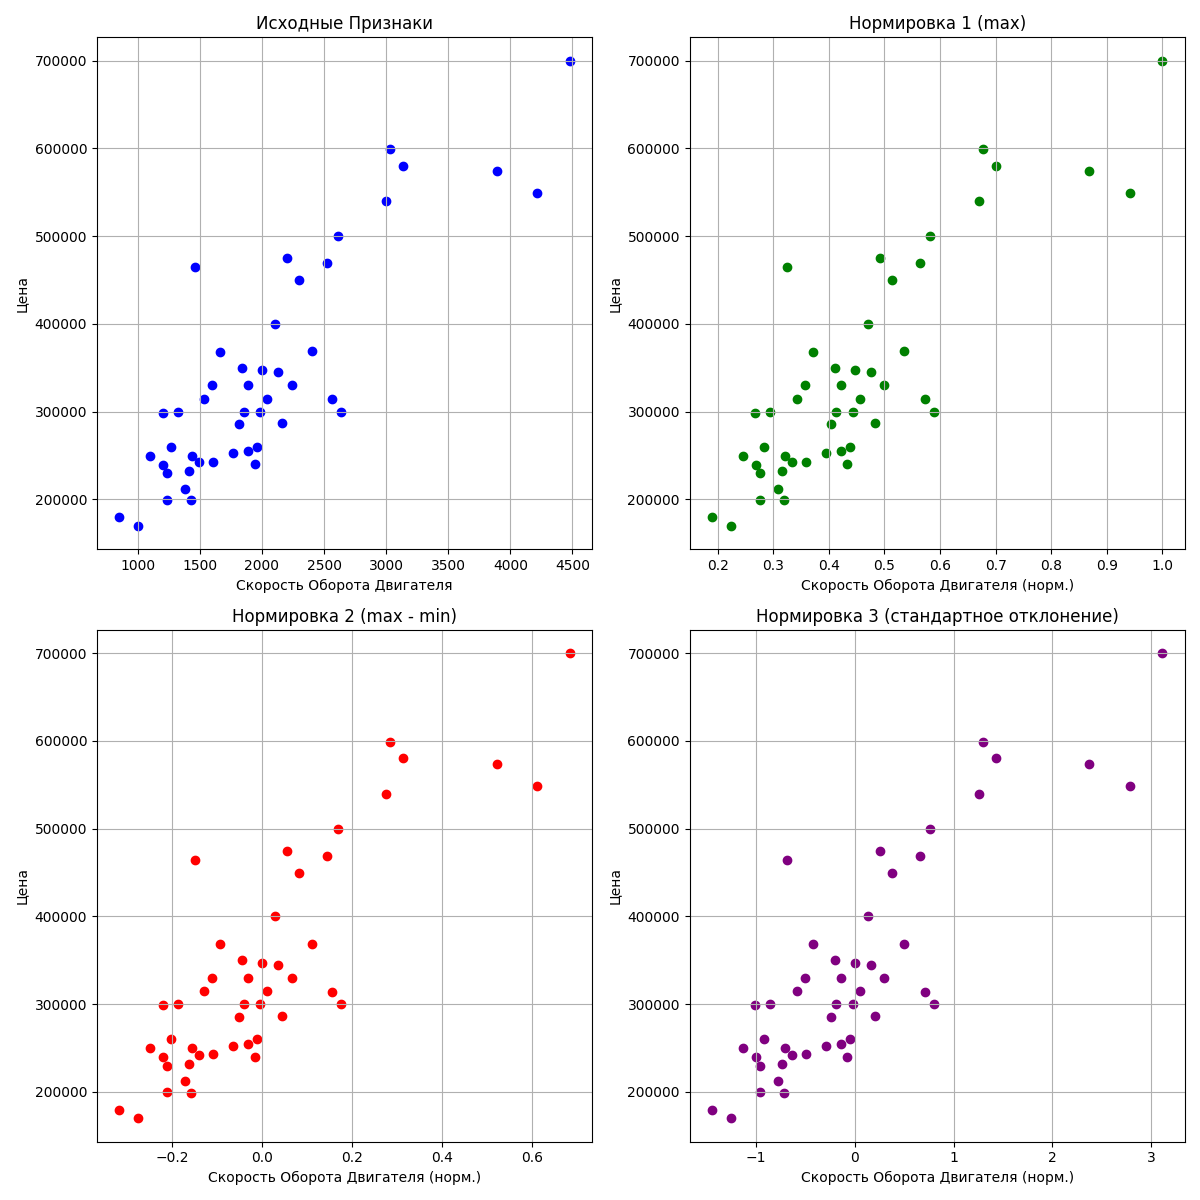
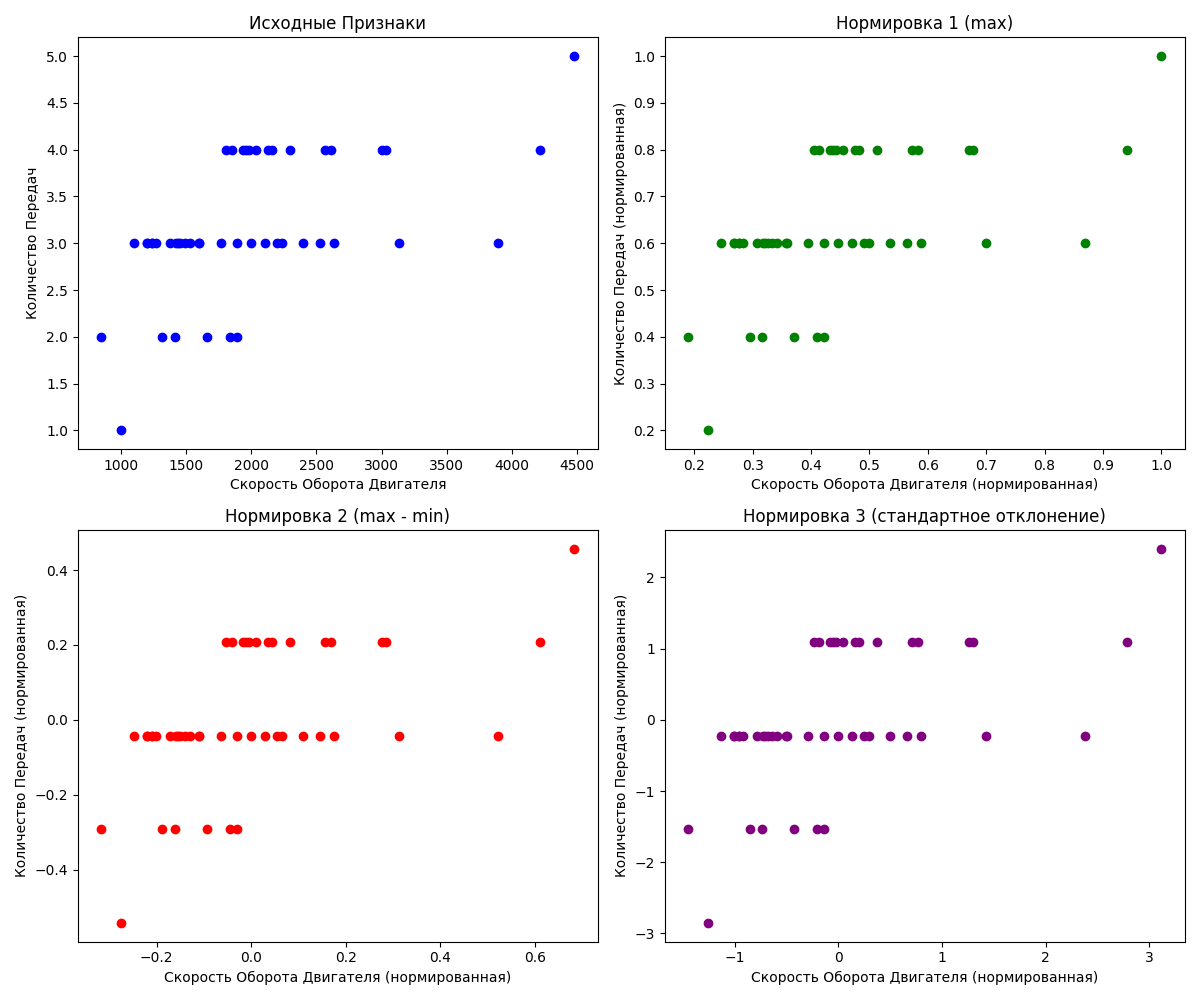
ь

diff --git a/4-normalization/normalization.py b/4-normalization/normalization.py
@@ -1,110 +1,82 @@
 import pandas as pd
 import matplotlib.pyplot as plt
 
-file_path = "ex1data2.txt"
-data = pd.read_csv(file_path, header=None, names=["Скорость Оборота Двигателя", "Количество Передач", "Цена"])
+# Загрузка данных из файла
+data = pd.read_csv('ex1data2.txt', header=None)
+data.columns = ['Engine_Speed', 'Num_Gears', 'Price']
 
+# Нормировка 1: делим на максимальное значение
+data_normalized_1 = data.copy()
+data_normalized_1.iloc[:, 0] = data.iloc[:, 0] / data.iloc[:, 0].max()  # Engine_Speed
+data_normalized_1.iloc[:, 1] = data.iloc[:, 1] / data.iloc[:, 1].max()  # Num_Gears
+data_normalized_1.iloc[:, 2] = data.iloc[:, 2] / data.iloc[:, 2].max()  # Price
 
-def normalize_max(data):
-    """
-    Формула: x'_j = x_j / max(x_j)
-    """
-    return data / data.max()
+# Нормировка 2: центрируем и делим на диапазон (max - min)
+# (x - u) / (max(X) - min(X))
+data_normalized_2 = data.copy()
+data_normalized_2.iloc[:, 0] = (data.iloc[:, 0] - data.iloc[:, 0].mean()) / (
+            data.iloc[:, 0].max() - data.iloc[:, 0].min())
+data_normalized_2.iloc[:, 1] = (data.iloc[:, 1] - data.iloc[:, 1].mean()) / (
+            data.iloc[:, 1].max() - data.iloc[:, 1].min())
+data_normalized_2.iloc[:, 2] = (data.iloc[:, 2] - data.iloc[:, 2].mean()) / (
+            data.iloc[:, 2].max() - data.iloc[:, 2].min())
 
+# Нормировка 3: центрируем и делим на стандартное отклонение
+# (x - u) / std(X)
+#  std = (1/n* sum((x - u)**2))**0.5
+data_normalized_3 = data.copy()
+data_normalized_3.iloc[:, 0] = (data.iloc[:, 0] - data.iloc[:, 0].mean()) / data.iloc[:, 0].std()
+data_normalized_3.iloc[:, 1] = (data.iloc[:, 1] - data.iloc[:, 1].mean()) / data.iloc[:, 1].std()
+data_normalized_3.iloc[:, 2] = (data.iloc[:, 2] - data.iloc[:, 2].mean()) / data.iloc[:, 2].std()
 
-def normalize_range(data):
-    """
-    Формула: x'_j = (x_j - mean(x_j)) / (max(x_j) - min(x_j))
-    """
-    mean = data.mean()
-    range_ = data.max() - data.min()
-    return (data - mean) / range_
+# Визуализация исходных и нормализованных данных
+plt.figure(figsize=(12, 10))
 
-
-def normalize_std(data):
-    """
-    Формула: x'_j = (x_j - mean(x_j)) / std(x_j)
-    """
-    mean = data.mean()
-    std = data.std()
-    return (data - mean) / std
-
-
-# Вычисление среднего и стандартного отклонения явно по определению
-def calculate_mean(data):
-    """
-    Среднее значение: mean = sum(x_i) / N
-    """
-    return sum(data) / len(data)
-
-
-def calculate_std(data, mean):
-    """
-    Стандартное отклонение: std = sqrt(sum((x_i - mean)^2) / N)
-    """
-    variance = sum((x - mean) ** 2 for x in data) / len(data)
-    return variance ** 0.5
-
-
-# Признаки и целевая переменная
-features = data.iloc[:, :-1]
-price = data.iloc[:, -1]
-
-# Добавление целевой переменной в список для обработки
-columns_to_process = features.join(price).columns
-
-# Вычисление среднего и СКО по каждой колонке
-for column in columns_to_process:
-    column_data = data[column]
-    mean_by_def = calculate_mean(column_data)
-    std_by_def = calculate_std(column_data, mean_by_def)
-
-    # Использование встроенных функций pandas
-    mean_builtin = column_data.mean()
-    std_builtin = column_data.std()
-
-    print(f"Колонка: {column}")
-    print(f"Среднее (по определению): {mean_by_def}")
-    print(f"Среднее (встроенная функция): {mean_builtin}")
-    print(f"СКО (по определению): {std_by_def}")
-    print(f"СКО (встроенная функция): {std_builtin}")
-    print("-" * 40)
-
-# Нормализация
-norm_max = features.apply(normalize_max, axis=0)
-norm_range = features.apply(normalize_range, axis=0)
-norm_std = features.apply(normalize_std, axis=0)
-
-# Построение графиков
-plt.figure(figsize=(12, 12))
-
+# Исходные данные (только признаки)
 plt.subplot(2, 2, 1)
-plt.scatter(features.iloc[:, 0], price, color="blue")
-plt.xlabel("Скорость Оборота Двигателя")
-plt.ylabel("Цена")
-plt.title("Исходные Признаки")
-plt.grid()
+plt.scatter(data['Engine_Speed'], data['Num_Gears'], color='blue')
+plt.title('Исходные Признаки')
+plt.xlabel('Скорость Оборота Двигателя')
+plt.ylabel('Количество Передач')
 
+# Нормированные данные (первый способ)
 plt.subplot(2, 2, 2)
-plt.scatter(norm_max.iloc[:, 0], price, color="green")
-plt.xlabel("Скорость Оборота Двигателя (норм.)")
-plt.ylabel("Цена")
-plt.title("Нормировка 1 (max)")
-plt.grid()
+plt.scatter(data_normalized_1['Engine_Speed'], data_normalized_1['Num_Gears'], color='green')
+plt.title('Нормировка 1 (max)')
+plt.xlabel('Скорость Оборота Двигателя (нормированная)')
+plt.ylabel('Количество Передач (нормированная)')
 
+# Нормированные данные (второй способ)
 plt.subplot(2, 2, 3)
-plt.scatter(norm_range.iloc[:, 0], price, color="red")
-plt.xlabel("Скорость Оборота Двигателя (норм.)")
-plt.ylabel("Цена")
-plt.title("Нормировка 2 (max - min)")
-plt.grid()
+plt.scatter(data_normalized_2['Engine_Speed'], data_normalized_2['Num_Gears'], color='red')
+plt.title('Нормировка 2 (max - min)')
+plt.xlabel('Скорость Оборота Двигателя (нормированная)')
+plt.ylabel('Количество Передач (нормированная)')
 
+# Нормированные данные (третий способ)
 plt.subplot(2, 2, 4)
-plt.scatter(norm_std.iloc[:, 0], price, color="purple")
-plt.xlabel("Скорость Оборота Двигателя (норм.)")
-plt.ylabel("Цена")
-plt.title("Нормировка 3 (стандартное отклонение)")
-plt.grid()
+plt.scatter(data_normalized_3['Engine_Speed'], data_normalized_3['Num_Gears'], color='purple')
+plt.title('Нормировка 3 (стандартное отклонение)')
+plt.xlabel('Скорость Оборота Двигателя (нормированная)')
+plt.ylabel('Количество Передач (нормированная)')
 
 plt.tight_layout()
-plt.savefig("normalized_features.png")
+plt.savefig('normalized_features.png')
+
+# Стандартные функции Python
+means_explicit = {}
+std_devs_explicit = {}
+
+for col in data.columns:
+    means_explicit[col] = sum(data[col]) / len(data[col])
+    std_devs_explicit[col] = (sum((data[col] - means_explicit[col]) ** 2) / (len(data[col]))) ** 0.5
+
+print("Средние значения (явное вычисление):\n", means_explicit)
+print("Стандартные отклонения (явное вычисление):\n", std_devs_explicit)
+
+# Явно по определению
+means_std = data.mean()
+std_devs_std = data.std()
+
+print("Средние значения (стандартные функции):\n", means_std)
+print("Стандартные отклонения (стандартные функции):\n", std_devs_std)
